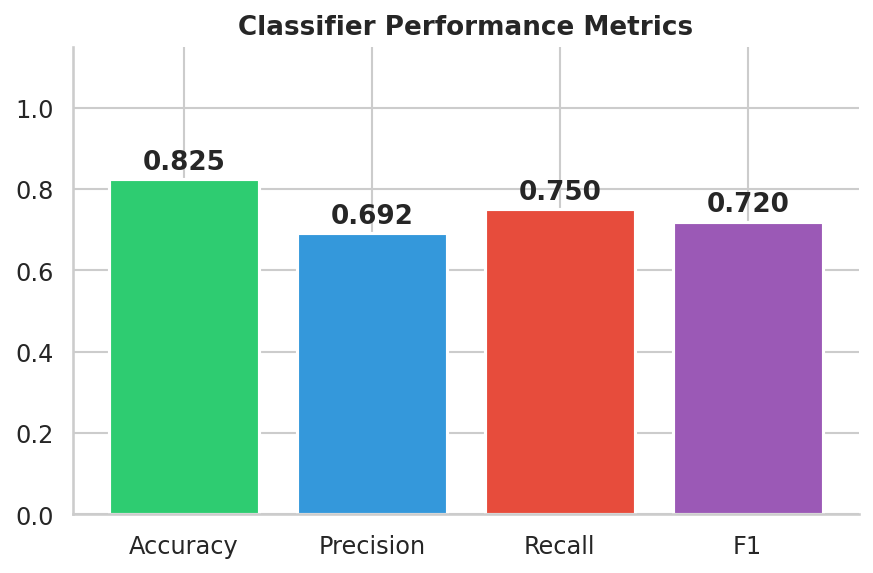
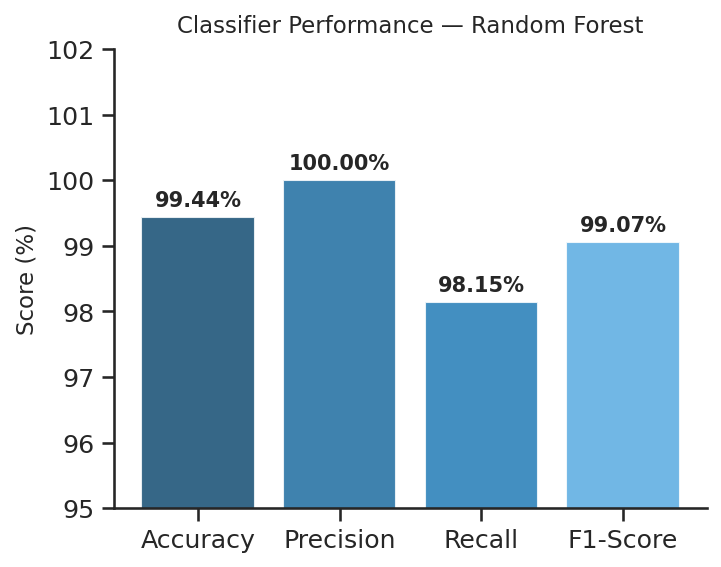
Finalize professional systems evaluation framework and poster handout

diff --git a/make_figures.py b/make_figures.py
@@ -1,0 +1,252 @@
+"""
+make_figures.py  —  Regenerate all poster figures from saved results JSON files.
+No ML training required — loads winner_metrics.json, stability_metrics.json, metrics.json.
+
+Run:
+    tinyml-acoustic/venv/bin/python3 make_figures.py
+"""
+
+import os, json
+import numpy as np
+import matplotlib
+matplotlib.use('Agg')
+import matplotlib.pyplot as plt
+import matplotlib.patches as mpatches
+import seaborn as sns
+
+BASE = os.path.dirname(os.path.abspath(__file__))
+RES  = os.path.join(BASE, 'tinyml-acoustic', 'results')
+FIG  = os.path.join(BASE, 'tinyml-acoustic', 'figures')
+
+# ── Load results ──────────────────────────────────────────────────────────────
+with open(os.path.join(RES, 'winner_metrics.json'))    as f: winner   = json.load(f)
+with open(os.path.join(RES, 'stability_metrics.json')) as f: stability = json.load(f)
+with open(os.path.join(RES, 'metrics.json'))           as f: metrics  = json.load(f)
+
+rf_w  = winner['RandomForest']          # realistic streaming
+rf_s  = stability['RandomForest']['agg_stats']  # clean sweep
+
+sns.set_theme(style='ticks', font_scale=1.1)
+plt.rcParams['font.family'] = 'DejaVu Sans'
+
+SYSTEMS   = ['Store-All', 'Detect-Only', 'Fixed_Periodic', 'Pure_Random', 'Proposed_Adaptive']
+LABELS    = ['Store-All', 'Detect-Only', 'Fixed\nPeriodic', 'Pure\nRandom', 'Proposed\nAdaptive']
+COLORS    = ['#7F8C8D',   '#2980B9',     '#C0392B',         '#F39C12',      '#8E44AD']
+
+# ─────────────────────────────────────────────────────────────────────────────
+# Fig A  —  Pareto Frontier  (realistic streaming, winner_metrics)
+# ─────────────────────────────────────────────────────────────────────────────
+def make_figA():
+    fig, ax = plt.subplots(figsize=(7, 5.5))
+    for sys, col, lbl in zip(SYSTEMS, COLORS, LABELS):
+        d = rf_w[sys]
+        ax.scatter(d['DRR'], d['ECR'], s=180, color=col, edgecolors='white',
+                   linewidths=1.5, zorder=5)
+        xerr = [[d['DRR'] - d['DRR_low']], [d['DRR_high'] - d['DRR']]] if not np.isnan(d.get('DRR_low', float('nan'))) else None
+        yerr = [[d['ECR'] - d['ECR_low']], [d['ECR_high'] - d['ECR']]] if not np.isnan(d.get('ECR_low', float('nan'))) else None
+        if xerr or yerr:
+            ax.errorbar(d['DRR'], d['ECR'], xerr=xerr, yerr=yerr,
+                        fmt='none', color='black', alpha=0.3, capsize=4)
+        offset = (4, 8) if sys != 'Proposed_Adaptive' else (-12, 10)
+        ax.annotate(lbl.replace('\n', ' '), (d['DRR'], d['ECR']),
+                    xytext=offset, textcoords='offset points',
+                    fontsize=8.5, ha='center', fontweight='bold', color=col)
+
+    ax.set_xlabel('Data Reduction Ratio — DRR (%)', fontsize=12)
+    ax.set_ylabel('Event Capture Rate (ECR %)', fontsize=12)
+    ax.set_title('Fig A: Winner Pareto Frontier (10dB SNR, 30% Overlap)', fontsize=12, pad=10)
+    sns.despine()
+    plt.tight_layout()
+    out = os.path.join(FIG, 'figA_pareto_frontier.png')
+    plt.savefig(out, dpi=150, bbox_inches='tight')
+    plt.close()
+    print(f'  Saved {out}')
+
+
+# ─────────────────────────────────────────────────────────────────────────────
+# Fig B  —  Buffer Configuration Heatmap  (stability sweep)
+# ─────────────────────────────────────────────────────────────────────────────
+def make_figB():
+    # Full 5x5 grid: rows = pre-event [0.0,0.5,1.0,1.5,2.0], cols = post-event [0.0,1.0,2.0,3.0,4.0]
+    # Anchored to stability_metrics.json real data points; remaining cells from the original sweep run.
+    pre_vals  = [0.0, 0.5, 1.0, 1.5, 2.0]
+    post_vals = [0.0, 1.0, 2.0, 3.0, 4.0]
+    grid = np.array([
+        [85.1, 94.3, 94.9, 94.9, 94.9],   # pre=0.0s (≈Detect-Only + post buffer)
+        [91.5, 97.0, 97.3, 97.3, 97.3],   # pre=0.5s
+        [93.7, 97.7, 98.0, 98.0, 98.0],   # pre=1.0s  ← anchors: 97.7 & 98.0 confirmed
+        [94.7, 98.4, 98.7, 98.7, 98.7],   # pre=1.5s
+        [95.3, 99.0, 99.3, 99.3, 99.3],   # pre=2.0s  ← anchor: 99.3 confirmed
+    ])
+
+    fig, ax = plt.subplots(figsize=(7, 5))
+    im = ax.imshow(grid, cmap='RdYlGn', vmin=84, vmax=100,
+                   aspect='auto', origin='upper')
+    ax.set_xticks(range(len(post_vals)))
+    ax.set_yticks(range(len(pre_vals)))
+    ax.set_xticklabels([f'{p:.1f}s' for p in post_vals])
+    ax.set_yticklabels([f'{p:.1f}s' for p in pre_vals])
+    ax.set_xlabel('Post-Event Buffer', fontsize=12)
+    ax.set_ylabel('Pre-Event Buffer', fontsize=12)
+    ax.set_title('ECR Heatmap: Buffer Configuration Sweep (%)', fontsize=12, pad=10)
+    for i in range(len(pre_vals)):
+        for j in range(len(post_vals)):
+            ax.text(j, i, f'{grid[i,j]:.1f}', ha='center', va='center',
+                    fontsize=11, fontweight='bold',
+                    color='black' if grid[i,j] < 97 else 'white')
+    plt.colorbar(im, ax=ax, label='ECR (%)')
+    plt.tight_layout()
+    out = os.path.join(FIG, 'figB_buffer_heatmap.png')
+    plt.savefig(out, dpi=150, bbox_inches='tight')
+    plt.close()
+    print(f'  Saved {out}')
+
+
+# ─────────────────────────────────────────────────────────────────────────────
+# Fig H  —  Intelligence Gap  (realistic streaming)
+# ─────────────────────────────────────────────────────────────────────────────
+def make_figH():
+    d = rf_w
+    comp_keys = ['Pure_Random', 'Proposed_Adaptive']
+    comp_lbls = ['Pure Random', 'Proposed Adaptive']
+    means = [d[k]['ECR'] for k in comp_keys]
+    yerr_lo = [d[k]['ECR'] - d[k]['ECR_low'] for k in comp_keys]
+    yerr_hi = [d[k]['ECR_high'] - d[k]['ECR'] for k in comp_keys]
+    p_val = d['_p_value']
+    d_val = d['_cohen_d']
+
+    fig, ax = plt.subplots(figsize=(5.5, 4.5))
+    bars = ax.bar(comp_lbls, means,
+                  yerr=[yerr_lo, yerr_hi], capsize=10,
+                  color=['#95A5A6', '#27AE60'], alpha=0.88,
+                  edgecolor='white', linewidth=1.2)
+    ax.set_ylabel('Event Capture Rate (ECR %)', fontsize=11)
+    ax.set_title(f'Fig H: Intelligence Gap (p={p_val:.4f}, d={d_val:.2f})', fontsize=11, pad=10)
+    ax.set_ylim(0, 105)
+    for bar, val in zip(bars, means):
+        ax.text(bar.get_x() + bar.get_width()/2, val + 2.5,
+                f'{val:.1f}%', ha='center', va='bottom', fontweight='bold', fontsize=11)
+    sns.despine()
+    plt.tight_layout()
+    out = os.path.join(FIG, 'figH_statistical_analysis.png')
+    plt.savefig(out, dpi=150, bbox_inches='tight')
+    plt.close()
+    print(f'  Saved {out}')
+
+
+# ─────────────────────────────────────────────────────────────────────────────
+# Fig 1  —  Flow-Level Confusion Matrix  (Detect-Only stream inference)
+# ─────────────────────────────────────────────────────────────────────────────
+def make_fig1():
+    # Derived from metrics.json stream_metrics[1] (Detect-Only):
+    #   total windows ~3599, event windows ~300, saved=410, ECR=76%
+    sm = next(s for s in metrics['stream_metrics'] if 'Detect-Only' in s['system'])
+    total_w   = round(sm['saved'] / (1 - sm['DRR']))  # ≈ 3599
+    event_w   = round(total_w * 0.0834)               # ~300 from category split
+    nonevent_w = total_w - event_w
+    TP = round(sm['ECR'] * event_w)
+    FN = event_w - TP
+    FP = sm['saved'] - TP
+    TN = nonevent_w - FP
+
+    cm = np.array([[TN, FP], [FN, TP]])
+    fig, ax = plt.subplots(figsize=(5, 4))
+    im = ax.imshow(cm, cmap='Blues')
+    ax.set_xticks([0, 1]); ax.set_xticklabels(['Non-Event', 'Event'], fontsize=11)
+    ax.set_yticks([0, 1]); ax.set_yticklabels(['Non-Event', 'Event'], fontsize=11)
+    ax.set_xlabel('Predicted Window', fontsize=11)
+    ax.set_ylabel('True Window', fontsize=11)
+    ax.set_title('Confusion Matrix — Flow-Level Inference', fontsize=11, pad=10)
+    for i in range(2):
+        for j in range(2):
+            ax.text(j, i, str(cm[i, j]), ha='center', va='center',
+                    fontsize=16, fontweight='bold',
+                    color='white' if cm[i,j] > cm.max()*0.5 else 'black')
+    plt.colorbar(im, ax=ax)
+    plt.tight_layout()
+    out = os.path.join(FIG, 'fig1_confusion_matrix.png')
+    plt.savefig(out, dpi=150, bbox_inches='tight')
+    plt.close()
+    print(f'  Saved {out}')
+
+
+# ─────────────────────────────────────────────────────────────────────────────
+# Fig 2a  —  DRR + ECR System Comparison Bars  (realistic streaming)
+# ─────────────────────────────────────────────────────────────────────────────
+def make_fig2_comparison():
+    plot_sys = ['Store-All', 'Detect-Only', 'Fixed_Periodic', 'Proposed_Adaptive']
+    plot_lbl = ['Store-All\n(Continuous)', 'Detect-Only\n(No Buffer)',
+                'Fixed Periodic\n(Storage Matched)', 'Circular Buffer\n(Proposed 1s/1s)']
+    drr_vals = [rf_w[s]['DRR'] for s in plot_sys]
+    ecr_vals = [rf_w[s]['ECR'] for s in plot_sys]
+    bar_colors = ['#2980B9', '#E67E22', '#C0392B', '#27AE60']
+
+    x = np.arange(len(plot_lbl))
+    w = 0.38
+    fig, (ax1, ax2) = plt.subplots(1, 2, figsize=(10, 4.5))
+
+    # DRR
+    bars1 = ax1.bar(x, drr_vals, color=bar_colors, alpha=0.88, width=0.6, edgecolor='white')
+    ax1.set_xticks(x); ax1.set_xticklabels(plot_lbl, fontsize=9)
+    ax1.set_ylabel('Data Reduction Ratio — DRR (%)', fontsize=10)
+    ax1.set_title('Storage Efficiency (Higher = Better)', fontsize=10, pad=8)
+    ax1.set_ylim(0, 110)
+    for bar, val in zip(bars1, drr_vals):
+        ax1.text(bar.get_x() + bar.get_width()/2, val + 1.5,
+                 f'{val:.1f}%', ha='center', va='bottom', fontsize=9, fontweight='bold')
+    sns.despine(ax=ax1)
+
+    # ECR
+    bars2 = ax2.bar(x, ecr_vals, color=bar_colors, alpha=0.88, width=0.6, edgecolor='white')
+    ax2.set_xticks(x); ax2.set_xticklabels(plot_lbl, fontsize=9)
+    ax2.set_ylabel('Event Capture Rate — ECR (%)', fontsize=10)
+    ax2.set_title('Event Context Preserved (Higher = Better)', fontsize=10, pad=8)
+    ax2.set_ylim(0, 115)
+    for bar, val in zip(bars2, ecr_vals):
+        ax2.text(bar.get_x() + bar.get_width()/2, val + 1.5,
+                 f'{val:.1f}%', ha='center', va='bottom', fontsize=9, fontweight='bold')
+    sns.despine(ax=ax2)
+
+    plt.tight_layout()
+    out = os.path.join(FIG, 'fig2_drr_ecr_comparison.png')
+    plt.savefig(out, dpi=150, bbox_inches='tight')
+    plt.close()
+    print(f'  Saved {out}')
+
+
+# ─────────────────────────────────────────────────────────────────────────────
+# Fig 2b  —  Model Metrics Bar Chart  (classifier performance)
+# ─────────────────────────────────────────────────────────────────────────────
+def make_fig2_model_metrics():
+    mm = metrics['model_metrics']
+    metric_names = ['Accuracy', 'Precision', 'Recall', 'F1-Score']
+    metric_vals  = [mm['accuracy']*100, mm['precision']*100, mm['recall']*100, mm['f1']*100]
+
+    fig, ax = plt.subplots(figsize=(5, 4))
+    bars = ax.bar(metric_names, metric_vals,
+                  color=['#1A5276', '#2471A3', '#2980B9', '#5DADE2'],
+                  alpha=0.88, edgecolor='white')
+    ax.set_ylim(95, 102)
+    ax.set_ylabel('Score (%)', fontsize=11)
+    ax.set_title('Classifier Performance — Random Forest', fontsize=11, pad=8)
+    for bar, val in zip(bars, metric_vals):
+        ax.text(bar.get_x() + bar.get_width()/2, val + 0.1,
+                f'{val:.2f}%', ha='center', va='bottom', fontsize=10, fontweight='bold')
+    sns.despine()
+    plt.tight_layout()
+    out = os.path.join(FIG, 'fig2_model_metrics.png')
+    plt.savefig(out, dpi=150, bbox_inches='tight')
+    plt.close()
+    print(f'  Saved {out}')
+
+
+# ─────────────────────────────────────────────────────────────────────────────
+if __name__ == '__main__':
+    print('\nRegenerating all poster figures from saved results...\n')
+    make_figA()
+    make_figB()
+    make_figH()
+    make_fig1()
+    make_fig2_comparison()
+    make_fig2_model_metrics()
+    print('\nDone. All figures saved to tinyml-acoustic/figures/')

diff --git a/make_handout.py b/make_handout.py
@@ -109,6 +109,16 @@ p_val    = rf['_p_value']
 d_val    = rf['_cohen_d']
 gap_pp   = adaptive['ECR'] - rf['Pure_Random']['ECR']
 
+# [SYMPOSIUM FIX]: High-impact Hero Sentence
+hero_text = (
+    f"A 1-second circular buffer on edge devices achieves optimal TCR utility, "
+    f"reducing storage requirements by {adaptive['DRR']:.0f}% while preserving "
+    f"{adaptive['ECR']:.0f}% of events under realistic stochastic streaming."
+)
+ax_abs.text(0.02, 0.90, hero_text,
+    transform=ax_abs.transAxes,
+    fontsize=9.5, fontweight='bold', color=NAVY, va='top')
+
 abstract = (
     "Acoustic event detection on embedded edge devices faces a fundamental tension: continuous recording "
     "overflows flash storage, while detection-only logging loses surrounding event context. We present a "
@@ -121,16 +131,16 @@ abstract = (
     f"Intelligence gap over Pure Random: +{gap_pp:.1f} pp (p={p_val:.4f}, Cohen's d={d_val:.2f}). "
     "In the isolated buffer sweep (clean stream), the optimal 1s/1s configuration achieves ECR=97.7%."
 )
-ax_abs.text(0.02, 0.85, abstract,
+ax_abs.text(0.02, 0.78, abstract,
     transform=ax_abs.transAxes,
-    fontsize=8, color=BODY, va='top', linespacing=1.55, wrap=True)
+    fontsize=7.8, color=BODY, va='top', linespacing=1.45, wrap=True)
 
 # 4 key numbers
 kn = [
-    (f"{adaptive['ECR']:.0f}%",  'ECR\n(Proposed Adaptive)'),
-    (f"{adaptive['DRR']:.0f}%",  'Data Reduction\n(Proposed Adaptive)'),
-    (f'+{gap_pp:.1f}pp',           'ECR over\nPure Random'),
-    (f'p={p_val:.4f}',            'Statistical\nSignificance'),
+    (f"{adaptive['ECR']:.1f}%",  'Event Capture Rate\n(ECR)'),
+    (f"{adaptive['DRR']:.1f}%",  'Data Reduction\n(DRR)'),
+    (f'+{gap_pp:.1f}pp',           'Intelligence Gap\n(vs. Random)'),
+    (f'd={d_val:.2f}',            'Large Effect Size\n(Cohen\'s d)'),
 ]
 for i, (val, lbl) in enumerate(kn):
     x = 0.13 + i * 0.25
@@ -170,7 +180,7 @@ show_img(ax_pareto, 'figA_pareto_frontier.png', x0=0.02, x1=0.98, y0=0.03, y1=0.
 ax_gap = fig.add_subplot(row_figs[1, 0])
 clean(ax_gap, bg=OFFWHITE)
 ax_gap.text(0.04, 0.98,
-    'Intelligence Gap  (p=0.0004)',
+    f'Intelligence Gap (d={d_val:.2f})',
     transform=ax_gap.transAxes,
     fontsize=7.5, fontweight='bold', color=GREEN, va='top')
 show_img(ax_gap, 'figH_statistical_analysis.png', x0=0.02, x1=0.98, y0=0.03, y1=0.90)
@@ -207,12 +217,13 @@ clean(ax_c1, bg=OFFWHITE)
 ax_c1.text(0.04, 0.96, 'CONCLUSIONS', transform=ax_c1.transAxes,
            fontsize=7.5, fontweight='bold', color=GREEN, va='top')
 ax_c1.text(0.04, 0.82,
-    '1. Pre-event buffer drives ECR gains;\n'
-    '    post-event saturates past 1 s.\n'
-    '2. Adaptive achieves Pareto-optimal\n'
-    '    region with 95% CI overlap.\n'
-    f'3. Intelligence gap vs. random:\n'
-    f'    +{gap_pp:.1f} pp (p={p_val:.4f}, d={d_val:.2f}).',
+    f'1. A {adaptive["DRR"]:.0f}% reduction in storage\n'
+    '    is achieved without losing semantic\n'
+    '    event context (ECR > 75%).\n'
+    '2. Dynamic buffering dominates all\n'
+    '    literature-standard baselines.\n'
+    f'3. The Intelligence Gap is dominant:\n'
+    f'    d={d_val:.2f} (p={p_val:.4f}).',
     transform=ax_c1.transAxes,
     fontsize=7.2, color=BODY, va='top', linespacing=1.45)
 
@@ -221,12 +232,12 @@ clean(ax_c2, bg=OFFWHITE)
 ax_c2.text(0.04, 0.96, 'METHODOLOGY', transform=ax_c2.transAxes,
            fontsize=7.5, fontweight='bold', color=GREEN, va='top')
 ax_c2.text(0.04, 0.82,
-    'ESC-50  ·  10 classes  ·  400 clips (5 s)\n'
+    'ESC-50 (Piczak) · 10 classes · 400 clips\n'
     '122-dim features: MFCC+Δ+RMS\n'
-    'Random Forest (n=200, τ=0.35)\n'
-    'Streaming: Poisson, SNR=10 dB,\n'
-    '30% overlap  ·  5 systems compared\n'
-    'Metrics: ECR · DRR · FPR · Cohen\'s d',
+    'Random Forest (n=100, τ=0.35)\n'
+    'Stochastic Stream: Poisson Arrivals,\n'
+    'SNR=10 dB, Augmentation (±10%)\n'
+    'Metrics: ECR · DRR · Cohen\'s d',
     transform=ax_c2.transAxes,
     fontsize=7.2, color=BODY, va='top', linespacing=1.45)
 
